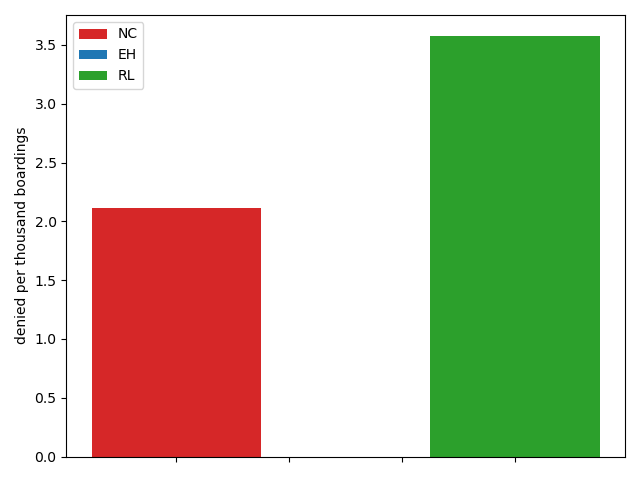
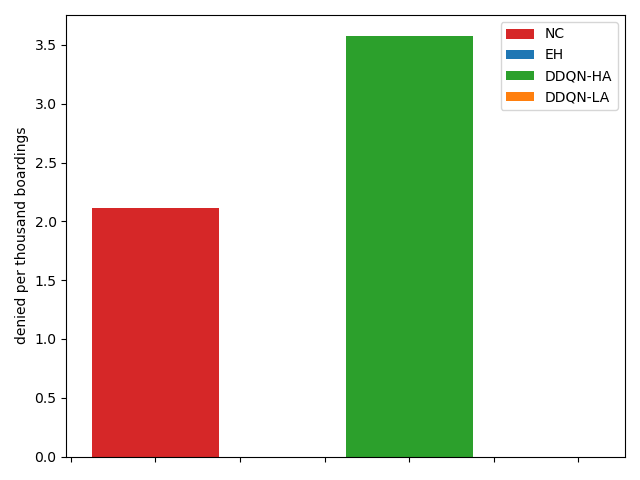
new benchmark added

diff --git a/src/04_SIMULATION/post_process.py b/src/04_SIMULATION/post_process.py
@@ -615,6 +615,7 @@ def get_pax_times(pax_set, ordered_stops, schd_wait):
     rt_rep_mean = []
     rbt_rep_mean = []
     pct_ewt_rep_mean = []
+    denied_board_wt = []
     for replication_nr in range(nr_replications):
         pax_times = {'o': [], 'd': [], 'jt': [], 'wt': [], 'rt': []}
         for p in pax_set[replication_nr]:
@@ -623,6 +624,8 @@ def get_pax_times(pax_set, ordered_stops, schd_wait):
             pax_times['jt'].append(p.journey_time)
             pax_times['rt'].append(p.alight_time - p.board_time)
             pax_times['wt'].append(p.wait_time)
+            if p.denied:
+                denied_board_wt.append(p.wait_time)
         jt_rep_mean.append(sum(pax_times['jt']) / len(pax_times['jt']))
         wt_rep_mean.append(sum(pax_times['wt']) / len(pax_times['wt']))
         rt_rep_mean.append(sum(pax_times['rt']) / len(pax_times['rt']))
@@ -649,7 +652,7 @@ def get_pax_times(pax_set, ordered_stops, schd_wait):
     rt_mean = np.mean(rt_rep_mean)
     rbt_mean = np.mean(rbt_rep_mean)
     pct_ewt_mean = np.mean(pct_ewt_rep_mean)
-    return jt_mean, rbt_mean, wt_mean, rt_mean, pct_ewt_mean
+    return jt_mean, rbt_mean, wt_mean, rt_mean, pct_ewt_mean, denied_board_wt
 
 
 def get_departure_delay(trajectories_set, idx_dep_t, ordered_trip_ids, sched_departures):

diff --git a/src/04_SIMULATION/output.py b/src/04_SIMULATION/output.py
@@ -19,18 +19,21 @@ class PostProcessor:
         wt_mean = []
         rt_mean = []
         pct_ewt_mean = []
+        db_wt_all = []
         for pax in self.cp_pax:
-            jt, rbt, wt, rt, pct_ewt = get_pax_times(pax, STOPS, FOCUS_TRIPS_MEAN_HW/2)
+            jt, rbt, wt, rt, pct_ewt, db_wt = get_pax_times(pax, STOPS, FOCUS_TRIPS_MEAN_HW/2)
             jt_mean.append(jt)
             rbt_mean.append(rbt)
             wt_mean.append(wt)
             rt_mean.append(rt)
             pct_ewt_mean.append(pct_ewt)
+            db_wt_all.append(db_wt)
         print(jt_mean)
         print(rbt_mean)
         print(wt_mean)
         print(rt_mean)
         print(pct_ewt_mean)
+        print(db_wt_all)
         return
 
     def headway(self):

diff --git a/src/04_SIMULATION/main_simul.py b/src/04_SIMULATION/main_simul.py
@@ -205,14 +205,13 @@ path_pax = [path_p_nc, path_p_eh, path_p_rl1, path_p_rl2]
 tags = ['NC', 'EH', 'DDQN-HA', 'DDQN-LA']
 post_processor = PostProcessor(path_trips, path_pax, tags)
 # post_processor.write_trajectories()
-post_processor.total_trip_time_distribution()
-post_processor.headway()
-post_processor.load_profile()
+# post_processor.total_trip_time_distribution()
+# post_processor.headway()
+# post_processor.load_profile()
 # post_processor.denied()
 # post_processor.hold_time()
 # post_processor.wait_times_per_stop()
 post_processor.pax_times()
-
 
 
 # VALIDATION
